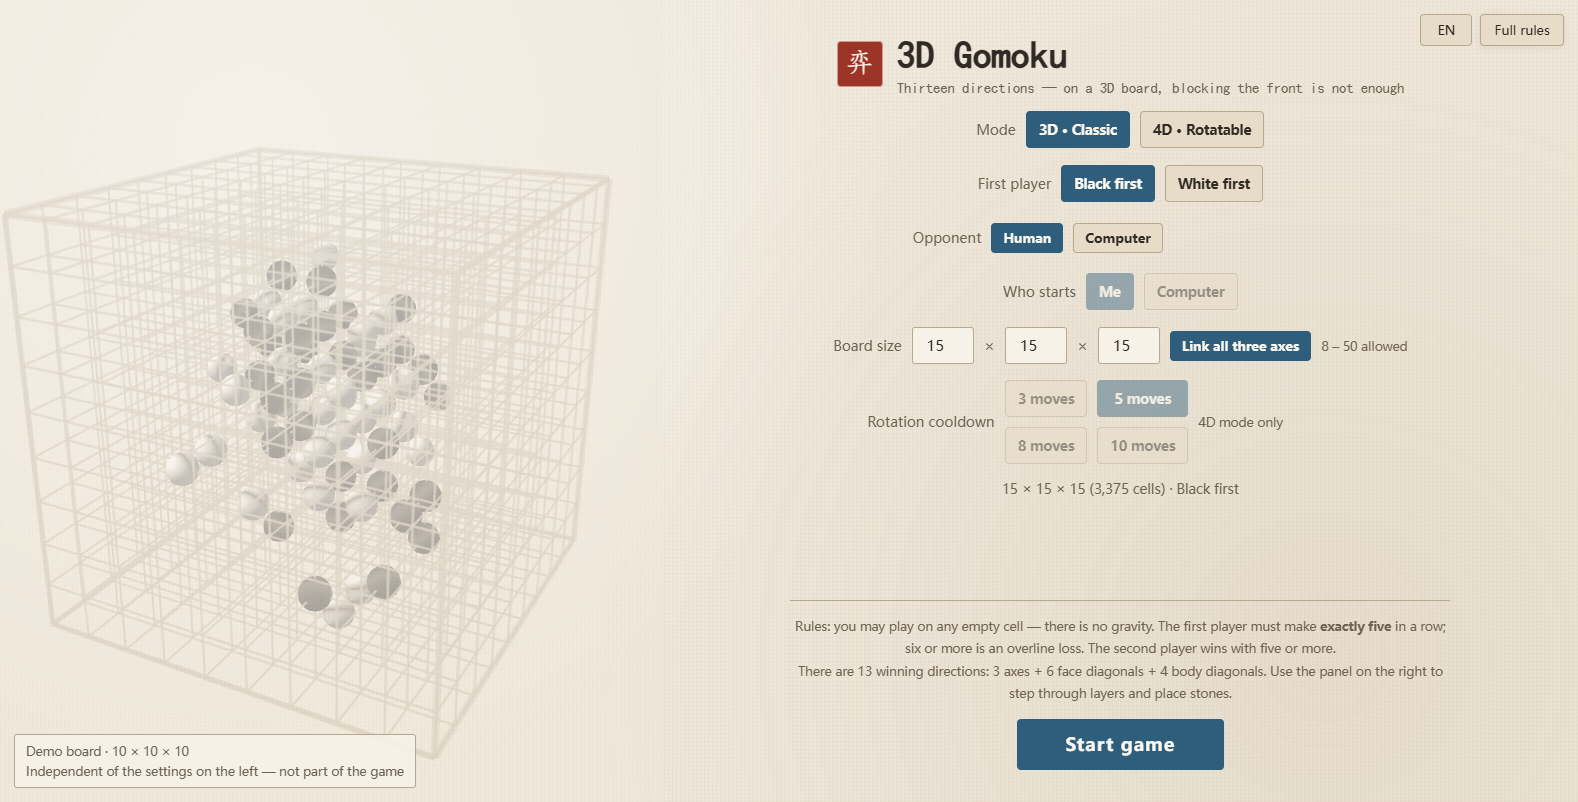
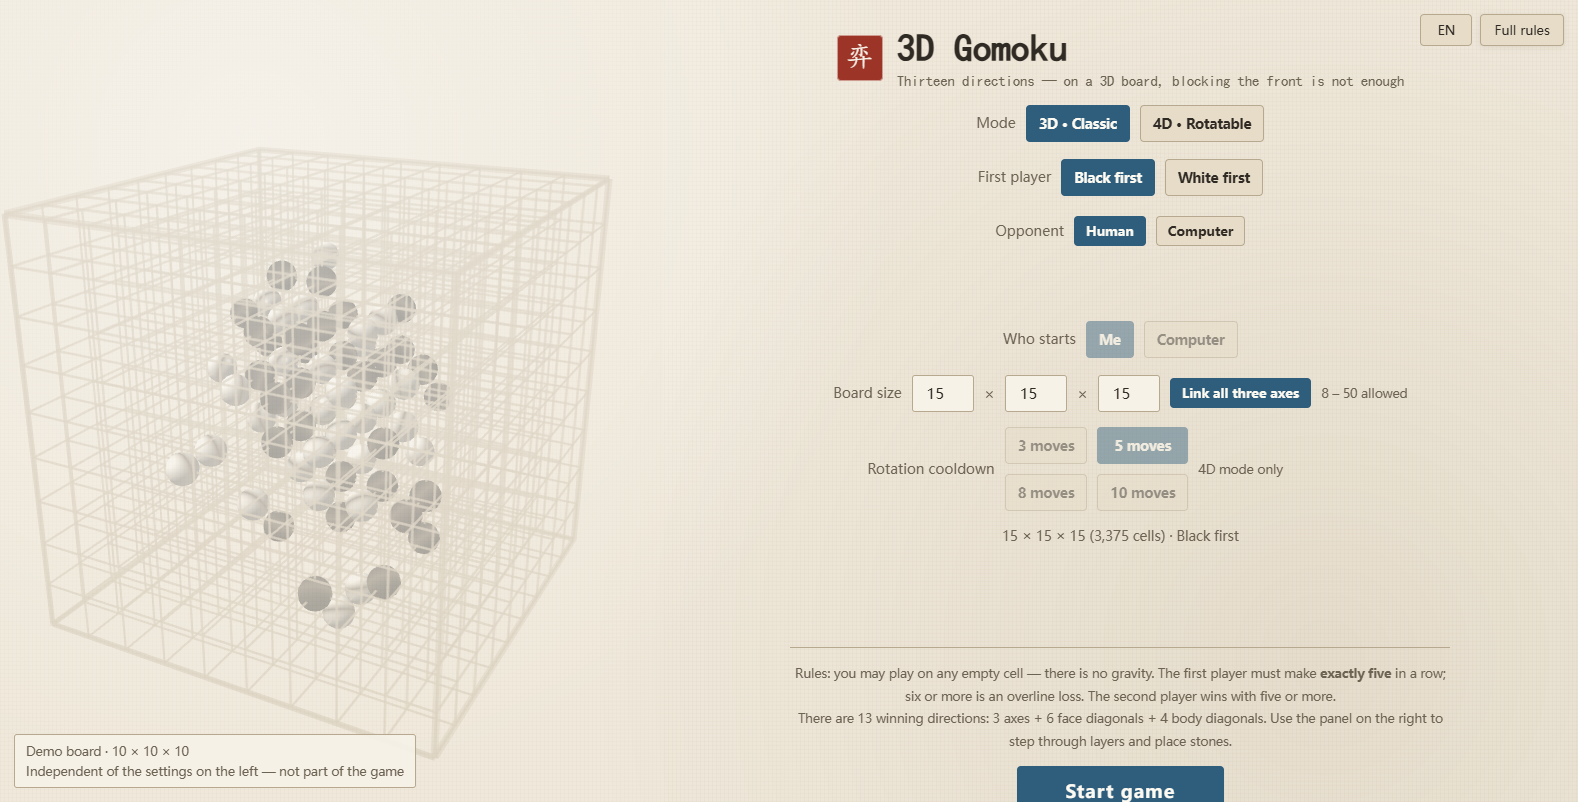
调整起始界面：强度拉条移到「对手」下方单独一行（v2.10.4）
- 拉条从「对手」那一行里挪出来，自己占一行，放在开关下面；人类 / 人机两个键居中。
- 为什么另起一行：并排时这一行在俄语/法语下会折行，而折行的那一行高度不一样、
  居中一重排 —— 整列按钮跟着跳。分开之后两个键那一行短而稳，拉条那一行宽度固定，
  两边都不会被语言挤变形。

隐藏方式仍然是 visibility:hidden（在整行上），不是 display:none：
后者会把这一行从布局里摘掉，下面所有行一起上移、而 #setup 是居中的，等于整屏跳一下。
**代价是「对手」和「谁先下」之间会空出一条（约一行高）** —— 这是刻意的取舍，
宁可空一块，不要跳一下。用户若要"紧一点、能接受那一下跳动"，改成 display:none 即可。

browser-check 289 → 290：新增"拉条自己占一行、没有折行"，
竖屏那三条也从"两行不叠"扩成"对手 / 拉条 / 谁先下 三行两两不叠"。
断言总数 40709 → 40710。

diff --git a/Web_Gomoku3D/index.html b/Web_Gomoku3D/index.html
@@ -485,8 +485,6 @@
     display: flex; align-items: center; gap: 8px; flex: 0 0 auto;
     --lv: #4f7fa0; --pct: 25%;
   }
-  /* 没选「人机」时整条看不见，但**槽位留着** —— 见 HTML 里那段注释。 */
-  #aiLevel.hide { visibility: hidden; }
   #aiLevel[data-lv="0"] { --lv: #8a7f6b; }
   #aiLevel[data-lv="1"] { --lv: #4f7fa0; }
   #aiLevel[data-lv="2"] { --lv: #2f5d7c; }
@@ -2554,17 +2552,21 @@ sur un plateau 15×15×15, une couche contient en moyenne moins d'un pion, et la
     <button id="firstWhite" data-first="2" data-i18n="firstWhite">白棋先手</button>
   </div>
 
-  <!-- 对手：人类 / 人机。选了「人机」右边才出现强度拉条。
+  <!-- 对手：人类 / 人机。**这一行只有两个键**，强度拉条在下面单独一行。
        【为什么分成两步】原来"人类"和四档强度挤在一行里，两者是同一个单选组 ——
        但"要不要跟电脑下"和"电脑有多强"本来是两件事，挤在一起时
        玩家看不出"我现在到底选了什么"。现在人类/人机是个开关，拉条是开关打开之后才有的刻度。
+       【为什么拉条另起一行】和开关并排时，这一行在俄语/法语下会折行，
+       而折行的那一行高度不一样、居中一重排 —— 整列按钮跟着跳。
+       另起一行之后，两个键那一行短而稳，拉条那一行宽度固定，两边都不会被语言挤变形。
+
        【拉条是原生 input[type=range]】因为要真的**拖得动**：纯按钮做的"拉条"只能点，
        拖不动。样式上把系统外观整个去掉（appearance:none）、自己画轨和滑块，
        方角 + 描边，和这一页其他按钮是同一套语言。
 
-       【没选人机时拉条用 visibility:hidden 而不是 display:none】
-       后者会把这一格从布局里摘掉，行宽一变、居中一重排，整列按钮都会跳一下；
-       前者只让它看不见，槽位还在。手机端尤其不能让它跳。
+       【没选人机时整行用 visibility:hidden 而不是 display:none】
+       后者会把这一行从布局里摘掉，下面所有行一起上移、而 #setup 是居中的 ——
+       等于整屏跳一下。前者只让它看不见，槽位还在。手机端尤其不能让它跳。
 
        【#aiLevelName 上没有 data-i18n】它的字是 JS 写进去的（随档位变），
        而带 data-i18n 的元素会被 applyStatic 覆写 —— 两条通路抢同一个元素。
@@ -2573,7 +2575,9 @@ sur un plateau 15×15×15, une couche contient en moyenne moins d'un pion, et la
     <div class="rowLabel" id="rowLabelAi" data-i18n="rowLabelAi">对手</div>
     <button class="mini sel" id="aiHuman" data-ai="human" data-i18n="aiHuman">人类</button>
     <button class="mini" id="aiCpu" data-ai="cpu" data-i18n="aiCpu">人机</button>
-    <div id="aiLevel" class="hide">
+  </div>
+  <div class="row hide" id="aiLevelRow">
+    <div id="aiLevel">
       <input type="range" id="aiRange" min="0" max="4" step="1" value="1">
       <span id="aiLevelName"></span>
     </div>
@@ -6527,7 +6531,7 @@ const Game = {
       "chip","status","rule","info","boardWrap","layerBase","layerOverlay","prevLayer","nextLayer",
       "topLayer","layerLabel","stripWrap","strip","undoBtn","restartBtn","swapBtn","setupBtn",
       "setup","firstBlack","firstWhite","sizeSummary","startBtn","view","stage","previewTag",
-      "aiHuman","aiCpu","aiLevel","aiRange","aiLevelName","orderMe","orderCpu",
+      "aiHuman","aiCpu","aiLevelRow","aiLevel","aiRange","aiLevelName","orderMe","orderCpu",
       "rulesBtn","rulesPanel","rulesClose","rulesBody",
       "rulesSrc","rulesSrcEn","rulesSrcJa","rulesSrcKo","rulesSrcRu","rulesSrcFr",
       "mode3d","mode4d","dimsRow3d","dimsRow4d","coolRow","dimX","dimY","dimZ","dimN","dimCube",
@@ -8870,7 +8874,7 @@ const Game = {
       if (el) el.classList.toggle("sel", el.dataset.ai === this.setupAi);
     }
     // 没选人机时拉条看不见，但槽位留着（见 #aiRow 的 HTML 注释：不能让整列跳）
-    if (this.el.aiLevel) this.el.aiLevel.classList.toggle("hide", this.setupAi !== "cpu");
+    if (this.el.aiLevelRow) this.el.aiLevelRow.classList.toggle("hide", this.setupAi !== "cpu");
     this.syncAiLevel();
     this.syncOrderRow();
     this.refreshSetupSummary();

diff --git a/README.en.md b/README.en.md
@@ -7,7 +7,7 @@
 
 [![Play online](https://img.shields.io/badge/Play_online-awua--dcm.github.io-2f6f4e?style=for-the-badge)](https://awua-dcm.github.io/gomoku-3d-4d/)
 [![Form](https://img.shields.io/badge/form-single_file_%C2%B7_zero_deps-8a6d3b?style=flat-square)](Web_Gomoku3D/index.html)
-[![Assertions](https://img.shields.io/badge/assertions-40709_passing-2f6f4e?style=flat-square)](_verify/run-all.sh)
+[![Assertions](https://img.shields.io/badge/assertions-40710_passing-2f6f4e?style=flat-square)](_verify/run-all.sh)
 [![License](https://img.shields.io/badge/license-MIT-4c8bf5?style=flat-square)](LICENSE)
 
 The online demo serves the very same `index.html` that is in this repository, hosted on
@@ -81,7 +81,7 @@ bash _verify/run-all.sh
 **All you need is node** — no Unity, no .NET, no npm packages. Nine steps; expected result:
 
 ```
-11733 + 19408 + 98 + 114 + 107 + 8845 + 115 + 289 = 40709 assertions, all green
+11733 + 19408 + 98 + 114 + 107 + 8845 + 115 + 290 = 40710 assertions, all green
 ```
 
 Step 9 (a real headless-browser check) is optional: if Chrome or Edge isn't installed it is
@@ -98,7 +98,7 @@ To run one piece on its own:
 | `node Web_Gomoku3D/tests/dom-smoke.test.mjs` | 107 | UI against a DOM stub (includes the language switch, gesture and reset edge cases, drag-direction convention) |
 | `node Web_Gomoku3D/tests/online.test.mjs` | 8845 | Networking kernel, cell-by-cell against the web build (1156 cases) |
 | `node Web_Gomoku3D/tests/online-http.test.mjs` | 115 | Networking HTTP layer (loopback) |
-| `node _verify/browser-check.mjs` | 289 | Real browser (GLSL compilation, layout geometry, console errors, six-language screen sweep, synthesized multi-touch, a real-timer game against the computer) |
+| `node _verify/browser-check.mjs` | 290 | Real browser (GLSL compilation, layout geometry, console errors, six-language screen sweep, synthesized multi-touch, a real-timer game against the computer) |
 
 The two networking tests run inside step 8 and **cannot be skipped**.
 
@@ -256,6 +256,7 @@ is in [Web_Gomoku3D/README.md](Web_Gomoku3D/README.md) — in Chinese.
 
 ### 2026.09.27
 
+- 🎨 **v2.10.4** Start screen: the strength slider now sits on its own row below the Human / Computer switch, and the two buttons are centred
 - 🐛 **v2.10.3** The strength slider is now genuinely draggable (a native range input, square corners like every other button) and its fill deepens one step per level; the opponent row is now a Human / Computer switch, with the slider appearing only once you pick the computer; all six languages updated
 - ✨ **v2.10.2** The computer opponent is now a five-stop slider (Low / Mid / High / Very high / Ultra); replaced the evaluation (threat counting per direction, gapped shapes and double threats); the top tier adds a kill search (forced runs of fours)
 

diff --git a/README.md b/README.md
@@ -7,7 +7,7 @@
 
 [![在线试玩](https://img.shields.io/badge/%E5%9C%A8%E7%BA%BF%E8%AF%95%E7%8E%A9-awua--dcm.github.io-2f6f4e?style=for-the-badge)](https://awua-dcm.github.io/gomoku-3d-4d/)
 [![形态](https://img.shields.io/badge/%E5%BD%A2%E6%80%81-%E5%8D%95%E6%96%87%E4%BB%B6_%C2%B7_%E9%9B%B6%E4%BE%9D%E8%B5%96-8a6d3b?style=flat-square)](Web_Gomoku3D/index.html)
-[![断言](https://img.shields.io/badge/%E6%96%AD%E8%A8%80-40709_%E9%A1%B9%E5%85%A8%E7%BB%BF-2f6f4e?style=flat-square)](_verify/run-all.sh)
+[![断言](https://img.shields.io/badge/%E6%96%AD%E8%A8%80-40710_%E9%A1%B9%E5%85%A8%E7%BB%BF-2f6f4e?style=flat-square)](_verify/run-all.sh)
 [![许可](https://img.shields.io/badge/license-MIT-4c8bf5?style=flat-square)](LICENSE)
 
 在线试玩跑的就是仓库里这份 `index.html` 原件，托管在 GitHub Pages —— 没有构建步骤，
@@ -80,7 +80,7 @@ bash _verify/run-all.sh
 九步，期望结果：
 
 ```
-11733 + 19408 + 98 + 114 + 107 + 8845 + 115 + 289 = 40709 项断言全绿
+11733 + 19408 + 98 + 114 + 107 + 8845 + 115 + 290 = 40710 项断言全绿
 ```
 
 第 9 步（真实无头浏览器检查）是可选的：本机没装 Chrome/Edge 会自动跳过，不算失败。
@@ -97,7 +97,7 @@ bash _verify/run-all.sh
 | `node Web_Gomoku3D/tests/dom-smoke.test.mjs` | 107 | 界面桩环境（含六语言文案齐全性、手势与复位的边界值、拖拽方向约定） |
 | `node Web_Gomoku3D/tests/online.test.mjs` | 8845 | 联机内核：和网页版逐格对拍 1156 组 |
 | `node Web_Gomoku3D/tests/online-http.test.mjs` | 115 | 联机 HTTP 层（本机 loopback） |
-| `node _verify/browser-check.mjs` | 289 | 真实浏览器（GLSL 编译、布局几何、控制台报错、六语言逐屏扫描、合成多点触摸、真定时器下的人机对局） |
+| `node _verify/browser-check.mjs` | 290 | 真实浏览器（GLSL 编译、布局几何、控制台报错、六语言逐屏扫描、合成多点触摸、真定时器下的人机对局） |
 
 后两项联机测试在第 8 步里跑，**不可跳过**（端口是随机挑的空闲端口）。
 另有三个注入验证脚本，专门证明上面那些检查**真的会红**：
@@ -223,6 +223,7 @@ bash _verify/run-all.sh
 
 ### 2026.09.27
 
+- 🎨 **v2.10.4** 调整起始界面：强度拉条移到「对手」下方单独一行，人类 / 人机两个键居中
 - 🐛 **v2.10.3** 强度拉条改成真的能拖（原生滑块、方角、和别的按钮同一套），拖动时颜色一档档变重；「对手」拆成 人类/人机 两步，选了人机才出现拉条；「谁先下」的「电脑」改为「人机」
 - ✨ **v2.10.2** 电脑对手改成五档（低/中/高/极高/极限）拉条；换掉评估函数（按方向数威胁、认得跳形与双威胁）；最高档新增算杀（连续冲四的强制取胜搜索）
 

diff --git a/Web_Gomoku3D/README.md b/Web_Gomoku3D/README.md
@@ -64,12 +64,17 @@
 
 ### 电脑对手
 
-起始界面上「对手」一行是个开关：**人类 / 人机**。选了「人机」，右边才出现强度拉条，
-五档 **低 / 中 / 高 / 极高 / 极限**，拖动时填充色一档档变重（灰 → 蓝 → 深蓝 → 金 → 朱砂）。
+起始界面上「对手」一行是个开关：**人类 / 人机**，两个键居中。选了「人机」，
+**它下面那一行**才出现强度拉条，五档 **低 / 中 / 高 / 极高 / 极限**，
+拖动时填充色一档档变重（灰 → 蓝 → 深蓝 → 金 → 朱砂）。
+
+拉条另起一行而不是和开关并排：并排时这一行在俄语/法语下会折行，而折行的那一行高度不一样、
+居中一重排 —— 整列按钮跟着跳。分开之后，两个键那一行短而稳，拉条那一行宽度固定。
 
 拉条是**原生 `input[type=range]`**（去掉系统外观自己画，方角和别的按钮统一），所以**真的拖得动**，
-键盘左右键也能换档。**没选人机时它用 `visibility: hidden` 藏起来**而不是 `display: none` ——
-后者会把这一格从布局里摘掉，行宽一变、居中一重排，整列按钮都会跳一下。
+键盘左右键也能换档。**没选人机时整行用 `visibility: hidden` 藏起来**而不是 `display: none` ——
+后者会把这一行从布局里摘掉，下面所有行一起上移、而 `#setup` 是居中的，等于整屏跳一下。
+代价是「对手」和「谁先下」之间会空出一条（约一行高），这是**刻意**的取舍：宁可空一块，不要跳一下。
 
 **「谁先手」和「谁先下」是两件事，别混。** 谁先手选的是**哪个颜色**先走
 （长连判负跟着"先手"这个身份走，所以这一步顺带定了谁受限）；谁先下选的是**哪个人**执那个颜色。

diff --git a/打开流程.md b/打开流程.md
@@ -52,7 +52,7 @@ bash _verify/run-all.sh
 
 九步（第 9 步可选）。**不需要 Unity，也不需要 .NET，只要有 node。**
 
-期望结果：11733 + 19408 + 98 + 114 + 107 + 8845 + 115 + 289 = **40709 项断言全绿**。
+期望结果：11733 + 19408 + 98 + 114 + 107 + 8845 + 115 + 290 = **40710 项断言全绿**。
 
 单跑某一项：
 
@@ -65,7 +65,7 @@ bash _verify/run-all.sh
 | `node Web_Gomoku3D/tests/dom-smoke.test.mjs` | 107（界面桩环境，含六语言文案齐全性） |
 | `node Web_Gomoku3D/tests/online.test.mjs` | 8845（联机内核与网页版逐格对拍） |
 | `node Web_Gomoku3D/tests/online-http.test.mjs` | 115（联机 HTTP 层） |
-| `node _verify/browser-check.mjs` | 289（真实无头浏览器；没装浏览器会自动跳过） |
+| `node _verify/browser-check.mjs` | 290（真实无头浏览器；没装浏览器会自动跳过） |
 
 第 9 步的截图落在 `_verify/shots/`。
 
@@ -97,4 +97,4 @@ shell 会把它拆成多个参数，然后拼出一个不存在的路径并**静
 | 英文的术语是否前后一致 | 同上；术语表在 `Web_Gomoku3D/README.md` |
 | **电脑对手的棋力手感** | 开一局人机，三档各下几盘。自动检查只验到"合法、不卡死、算得快、三档强弱关系对"，**"弱档是不是真的能被新手赢""中档是不是还有点意思"只能你自己下**。参考图 `_verify/shots/7-人机对战.png` |
 
-其余部分（40709 项断言）都已经真实跑过并通过。
+其余部分（40710 项断言）都已经真实跑过并通过。
